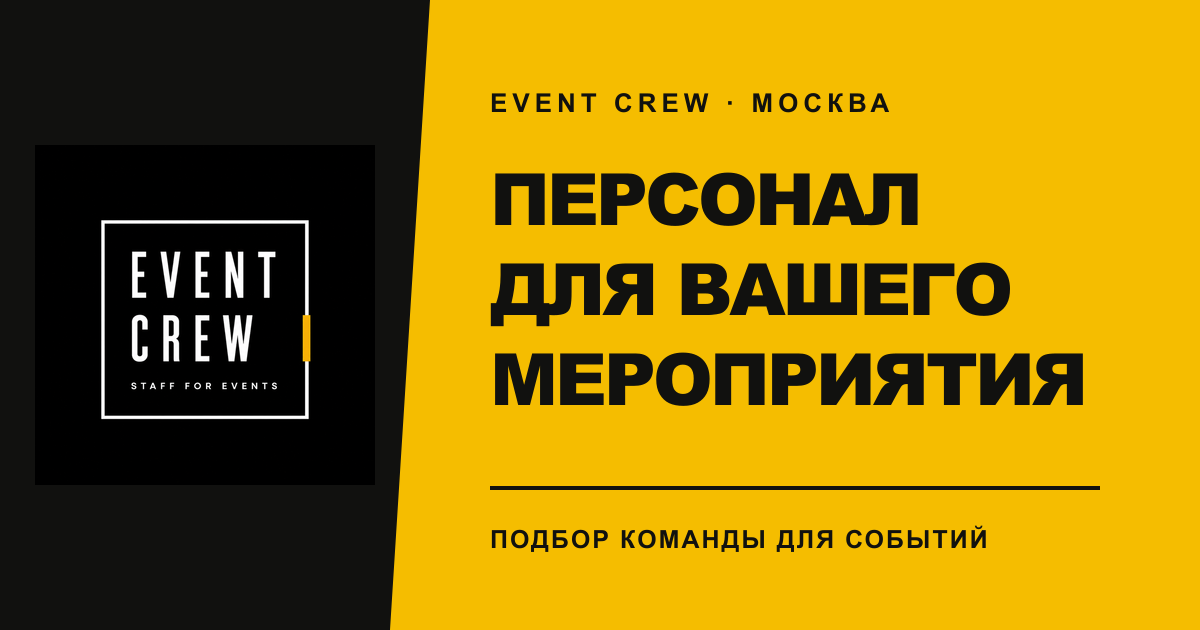
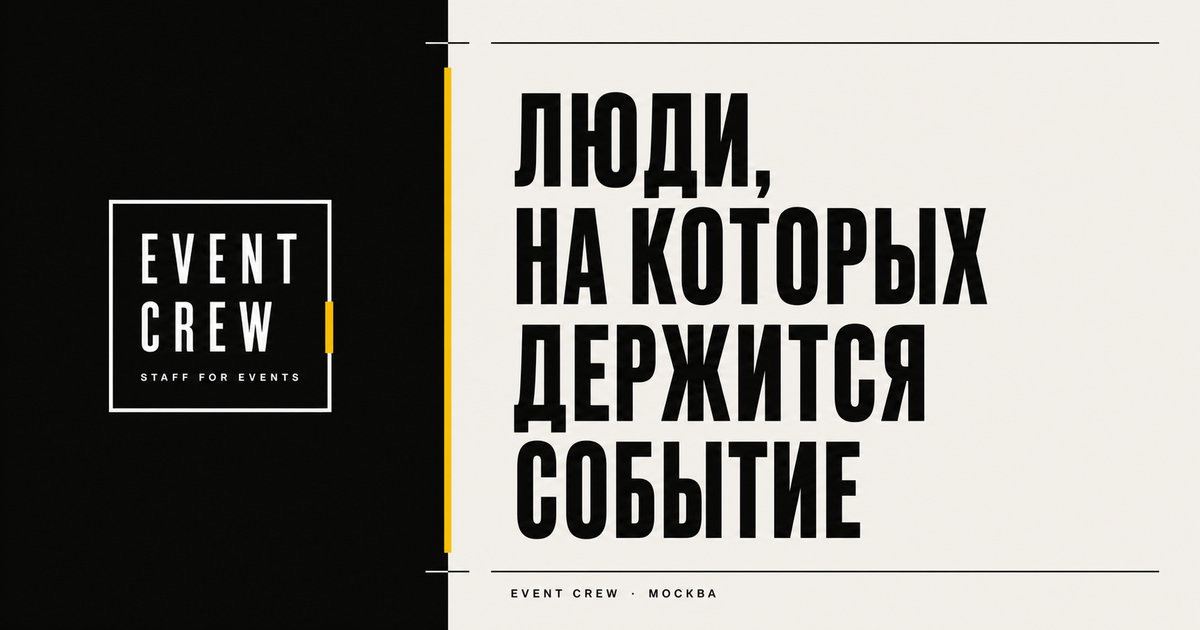
fix: align redesign with approved interaction spec

diff --git a/components/Services.tsx b/components/Services.tsx
@@ -1,9 +1,15 @@
+"use client";
+
 import Image from "next/image";
-import { services } from "@/data/services";
+import { useState } from "react";
 import Reveal from "@/components/Reveal";
 import SectionHeading from "@/components/ui/SectionHeading";
+import { services, type Service } from "@/data/services";
 
 export default function Services() {
+  const [activeId, setActiveId] = useState<Service["id"]>(services[0].id);
+  const activeService = services.find((service) => service.id === activeId) ?? services[0];
+
   return (
     <section aria-labelledby="services-heading" className="mx-auto max-w-[var(--content-width)] px-[var(--page-gutter)] py-24 sm:py-32" id="services">
       <Reveal>
@@ -11,19 +17,63 @@ export default function Services() {
           <SectionHeading eyebrow="Состав команды" title="Кого выводим на площадку" description="Соберём одну роль или смешанную команду. Для каждой смены фиксируем задачи и время работы." />
         </div>
       </Reveal>
-      <ul aria-label="Состав команды" className="mt-12 grid gap-x-6 gap-y-10 sm:grid-cols-2 lg:mt-16 lg:grid-cols-12">
+
+      <div className="mt-16 hidden grid-cols-[minmax(0,1.05fr)_minmax(24rem,0.95fr)] gap-14 lg:grid">
+        <figure className="sticky top-24 h-fit" data-active-service={activeService.id} data-testid="service-stage">
+          <div className="relative aspect-[4/5] overflow-hidden bg-black/5">
+            <Image alt="" className="h-full w-full object-cover" height={1200} key={activeService.id} priority src={activeService.image} width={960} />
+            <figcaption className="absolute inset-x-0 bottom-0 flex items-end justify-between bg-black/80 px-5 py-4 text-[color:var(--background)]">
+              <span className="text-xs font-extrabold uppercase tracking-[0.14em]">На площадке</span>
+              <span className="text-sm font-bold">{activeService.name}</span>
+            </figcaption>
+          </div>
+        </figure>
+
+        <ul aria-label="Состав команды: выбор роли" className="border-b border-black/20">
+          {services.map((service, index) => {
+            const isActive = service.id === activeService.id;
+            return (
+              <li className="border-t border-black/20" key={service.id}>
+                <button
+                  aria-label={`Показать: ${service.name}`}
+                  aria-pressed={isActive}
+                  className="group grid w-full grid-cols-[3.25rem_minmax(0,1fr)] gap-4 py-5 text-left"
+                  onClick={() => setActiveId(service.id)}
+                  onFocus={() => setActiveId(service.id)}
+                  onMouseEnter={() => setActiveId(service.id)}
+                  type="button"
+                >
+                  <span className={`pt-1 text-xs font-black tabular-nums tracking-[0.12em] ${isActive ? "text-[color:var(--foreground)]" : "text-[color:var(--muted)]"}`}>
+                    {String(index + 1).padStart(2, "0")}
+                  </span>
+                  <span>
+                    <span className={`block text-4xl font-black leading-none tracking-[-0.035em] transition-transform duration-150 ${isActive ? "translate-x-2" : "group-hover:translate-x-2"}`}>
+                      {service.name}
+                    </span>
+                    <span className={`mt-3 block max-w-md text-sm leading-relaxed ${isActive ? "text-[color:var(--foreground)]" : "text-[color:var(--muted)]"}`}>
+                      {service.description}
+                    </span>
+                  </span>
+                </button>
+              </li>
+            );
+          })}
+        </ul>
+      </div>
+
+      <ul aria-label="Состав команды: карточки" className="mt-12 grid gap-x-6 gap-y-10 sm:grid-cols-2 lg:hidden">
         {services.map((service, index) => (
-          <li className={index % 4 === 0 || index % 4 === 3 ? "lg:col-span-7" : "lg:col-span-5"} key={service.id}>
+          <li key={service.id}>
             <Reveal delay={Math.min(index * 0.04, 0.2)}>
-              <article className="group grid h-full border-t border-black/20 pt-3 lg:grid-cols-[minmax(0,1.05fr)_minmax(11rem,0.95fr)] lg:gap-5">
-              <div className="aspect-[2/3] overflow-hidden bg-black/5">
-                <Image alt={service.alt} className="h-full w-full object-cover transition-transform duration-200 group-hover:scale-[1.015]" height={1200} sizes="(min-width: 1024px) 38vw, (min-width: 640px) 50vw, 100vw" src={service.image} width={800} />
-              </div>
-              <div className="flex flex-col py-4 lg:py-1">
-                <span className="text-xs font-bold tabular-nums tracking-[0.14em] text-[color:var(--muted)]">ROLE / {String(index + 1).padStart(2, "0")}</span>
-                <h3 className="mt-6 text-3xl font-black leading-none tracking-[-0.035em]">{service.name}</h3>
-                <p className="mt-auto pt-5 leading-relaxed text-[color:var(--muted)]">{service.description}</p>
-              </div>
+              <article className="group h-full border-t border-black/20 pt-3">
+                <div className="aspect-[2/3] overflow-hidden bg-black/5">
+                  <Image alt={service.alt} className="h-full w-full object-cover transition-transform duration-200 group-hover:scale-[1.015]" height={1200} sizes="(min-width: 640px) 50vw, 100vw" src={service.image} width={800} />
+                </div>
+                <div className="py-4">
+                  <span className="text-xs font-bold tabular-nums tracking-[0.14em] text-[color:var(--muted)]">ROLE / {String(index + 1).padStart(2, "0")}</span>
+                  <h3 className="mt-6 text-3xl font-black leading-none tracking-[-0.035em]">{service.name}</h3>
+                  <p className="pt-5 leading-relaxed text-[color:var(--muted)]">{service.description}</p>
+                </div>
               </article>
             </Reveal>
           </li>

diff --git a/tests/components/sections.test.tsx b/tests/components/sections.test.tsx
@@ -1,4 +1,5 @@
 import { render, screen, within } from "@testing-library/react";
+import userEvent from "@testing-library/user-event";
 import Advantages from "@/components/Advantages";
 import Process from "@/components/Process";
 import Projects from "@/components/Projects";
@@ -15,16 +16,38 @@ describe("data-driven content sections", () => {
     const section = screen.getByRole("region", { name: /кого выводим на площадку/i });
     expect(section).toHaveAttribute("id", "services");
     expect(within(section).getByRole("heading", { level: 2 })).toBeInTheDocument();
-    expect(within(section).getByRole("list", { name: /состав команды/i })).toBeInTheDocument();
-    expect(within(section).getAllByRole("listitem")).toHaveLength(8);
+    const mobileRoster = within(section).getByRole("list", { name: "Состав команды: карточки" });
+    expect(within(mobileRoster).getAllByRole("listitem")).toHaveLength(8);
 
     for (const service of services) {
-      expect(within(section).getByRole("heading", { name: service.name, level: 3 })).toBeInTheDocument();
-      const image = within(section).getByRole("img", { name: service.alt });
+      expect(within(mobileRoster).getByRole("heading", { name: service.name, level: 3 })).toBeInTheDocument();
+      const image = within(mobileRoster).getByRole("img", { name: service.alt });
       expect(image).toHaveAttribute("alt", service.alt);
-      expect(image).toHaveAttribute("sizes", "(min-width: 1024px) 38vw, (min-width: 640px) 50vw, 100vw");
+      expect(image).toHaveAttribute("sizes", "(min-width: 640px) 50vw, 100vw");
       expect(image.parentElement).toHaveClass("aspect-[2/3]");
     }
+  });
+
+  it("changes the desktop roster image on hover and keyboard focus", async () => {
+    const user = userEvent.setup();
+    render(<Services />);
+
+    const roster = screen.getByRole("list", { name: "Состав команды: выбор роли" });
+    const stage = screen.getByTestId("service-stage");
+    const firstRole = within(roster).getByRole("button", { name: `Показать: ${services[0].name}` });
+    const secondRole = within(roster).getByRole("button", { name: `Показать: ${services[1].name}` });
+
+    expect(firstRole).toHaveAttribute("aria-pressed", "true");
+    expect(stage).toHaveAttribute("data-active-service", services[0].id);
+
+    await user.hover(secondRole);
+    expect(secondRole).toHaveAttribute("aria-pressed", "true");
+    expect(stage).toHaveAttribute("data-active-service", services[1].id);
+
+    await user.tab();
+    expect(firstRole).toHaveFocus();
+    expect(firstRole).toHaveAttribute("aria-pressed", "true");
+    expect(stage).toHaveAttribute("data-active-service", services[0].id);
   });
 
   it("renders all four advantages and states its Moscow-only scope", () => {

diff --git a/components/Hero.tsx b/components/Hero.tsx
@@ -5,18 +5,18 @@ export default function Hero() {
   return (
     <section className="relative mx-auto grid min-h-[100svh] max-w-[var(--content-width)] items-end gap-8 overflow-hidden px-[var(--page-gutter)] pb-8 pt-28 lg:grid-cols-12 lg:gap-6 lg:pb-14">
       <div className="relative z-10 min-w-0 pb-2 lg:col-span-7 lg:pb-12">
-        <p className="mb-6 text-xs font-extrabold uppercase tracking-[0.18em] text-[color:var(--muted)]">{siteConfig.tagline} / MOSCOW</p>
-        <div className="crew-line pl-5 sm:pl-7" data-crew-line="hero">
+        <p className="hero-enter hero-enter-1 mb-6 text-xs font-extrabold uppercase tracking-[0.18em] text-[color:var(--muted)]" data-hero-stage="1">{siteConfig.tagline} / MOSCOW</p>
+        <div className="crew-line hero-enter hero-enter-2 pl-5 sm:pl-7" data-crew-line="hero" data-hero-stage="2">
           <h1 className="max-w-4xl text-[clamp(3.25rem,11vw,7.9rem)] font-black leading-[0.82] tracking-[-0.055em]">Люди, на которых держится событие</h1>
         </div>
-        <div className="mt-8 grid gap-6 border-t border-black/15 pt-6 sm:grid-cols-[minmax(0,1fr)_auto] sm:items-end">
+        <div className="hero-enter hero-enter-3 mt-8 grid gap-6 border-t border-black/15 pt-6 sm:grid-cols-[minmax(0,1fr)_auto] sm:items-end" data-hero-stage="3">
           <p className="max-w-xl text-base leading-relaxed text-[color:var(--muted)] sm:text-lg">Подберём и выведем на площадку хостес, координаторов, регистраторов и линейный персонал в Москве</p>
           <a className="inline-flex min-h-12 items-center justify-center rounded-sm bg-[color:var(--accent)] px-6 text-sm font-extrabold uppercase tracking-[0.08em] transition-transform duration-150 hover:-translate-y-0.5 active:scale-[0.97]" href="#contact">
             Рассчитать команду
           </a>
         </div>
       </div>
-      <div className="relative min-h-[22rem] min-w-0 overflow-hidden bg-black sm:min-h-[32rem] lg:col-span-5 lg:min-h-[72svh]">
+      <div className="hero-enter hero-enter-4 relative min-h-[22rem] min-w-0 overflow-hidden bg-black sm:min-h-[32rem] lg:col-span-5 lg:min-h-[72svh]" data-hero-stage="4">
         <Image alt="Команда EVENT CREW на мероприятии" className="object-cover" fill priority sizes="(min-width: 1024px) 42vw, 100vw" src={siteConfig.heroImage} />
         <p className="absolute bottom-0 left-0 right-0 border-t border-white/20 bg-black/75 p-4 text-xs font-bold uppercase leading-relaxed tracking-[0.08em] text-white">Москва / состав от 2 человек / на связи в день события</p>
       </div>

diff --git a/components/ContactForm.tsx b/components/ContactForm.tsx
@@ -134,7 +134,7 @@ export default function ContactForm() {
         <form className="bg-[color:var(--background)] p-5 text-[color:var(--foreground)] sm:p-8" noValidate onSubmit={handleSubmit} ref={formRef}>
           <p className="mb-5 text-sm font-semibold">* обозначает обязательные поля</p>
           {validationSummary ? (
-            <p aria-live="assertive" className="mb-5 border-l-4 border-red-700 pl-3 font-bold text-red-800" role="alert">
+            <p aria-live="assertive" className="mb-5 border-l-4 border-[color:var(--danger)] pl-3 font-bold text-[color:var(--danger)]" role="alert">
               {validationSummary}
             </p>
           ) : null}
@@ -183,8 +183,8 @@ export default function ContactForm() {
           <button className="mt-7 inline-flex min-h-12 w-full items-center justify-center bg-[color:var(--accent)] px-6 text-sm font-black uppercase tracking-[0.08em] text-[color:var(--foreground)] transition-transform duration-150 hover:-translate-y-0.5 active:scale-[0.97] disabled:cursor-not-allowed disabled:opacity-70" disabled={status === "submitting"} type="submit">
             {status === "submitting" ? "Отправляем…" : "Отправить заявку"}
           </button>
-          {status === "success" ? <p aria-live="polite" className="mt-4 font-bold text-green-800" role="status">{successCopy}</p> : null}
-          {status === "error" ? <p aria-live="polite" className="mt-4 font-bold text-red-800" role="status">{failureCopy}</p> : null}
+          {status === "success" ? <p aria-live="polite" className="mt-4 font-bold text-[color:var(--foreground)]" role="status">{successCopy}</p> : null}
+          {status === "error" ? <p aria-live="polite" className="mt-4 font-bold text-[color:var(--danger)]" role="status">{failureCopy}</p> : null}
         </form>
       </div>
     </section>
@@ -197,7 +197,7 @@ function FieldError({ children, error, id }: { children: React.ReactNode; error?
   return (
     <div>
       {children}
-      {error ? <p className="mt-1 text-sm font-semibold text-red-800" id={id}>{error}</p> : null}
+      {error ? <p className="mt-1 text-sm font-semibold text-[color:var(--danger)]" id={id}>{error}</p> : null}
     </div>
   );
 }

diff --git a/app/globals.css b/app/globals.css
@@ -4,13 +4,14 @@
   --stage-black: #0a0a09;
   --work-paper: #f2efe6;
   --tape-yellow: #f4bd00;
-  --rig-grey: #66645d;
+  --rig-grey: #8a8982;
+  --readable-grey: #66645d;
   --steel-line: #cac7bd;
   --signal-red: #b83a2d;
   --background: var(--work-paper);
   --foreground: var(--stage-black);
   --accent: var(--tape-yellow);
-  --muted: var(--rig-grey);
+  --muted: var(--readable-grey);
   --muted-on-dark: #b9b6ad;
   --line: var(--steel-line);
   --danger: var(--signal-red);
@@ -72,6 +73,26 @@ textarea {
   width: 0.375rem;
   background: var(--accent);
   content: "";
+}
+
+.hero-enter {
+  animation: hero-enter 520ms cubic-bezier(0.22, 1, 0.36, 1) both;
+}
+
+.hero-enter-1 { animation-delay: 80ms; }
+.hero-enter-2 { animation-delay: 150ms; }
+.hero-enter-3 { animation-delay: 240ms; }
+.hero-enter-4 { animation-delay: 330ms; }
+
+@keyframes hero-enter {
+  from {
+    opacity: 0;
+    transform: translateY(18px);
+  }
+  to {
+    opacity: 1;
+    transform: translateY(0);
+  }
 }
 
 ::selection {

diff --git a/tests/app/contrast.test.ts b/tests/app/contrast.test.ts
@@ -5,6 +5,7 @@ it("uses the EVENT CREW production palette", () => {
     background: "#F2EFE6",
     foreground: "#0A0A09",
     accent: "#F4BD00",
+    rigGrey: "#8A8982",
     muted: "#66645D",
     mutedOnDark: "#B9B6AD",
     line: "#CAC7BD",
@@ -36,6 +37,7 @@ it.each([
   ["muted text on cream", themeColors.muted, themeColors.background],
   ["muted text on black", themeColors.mutedOnDark, themeColors.foreground],
   ["black text on yellow", themeColors.foreground, themeColors.accent],
+  ["danger text on cream", themeColors.danger, themeColors.background],
 ])("keeps %s at WCAG AA contrast", (_label, foreground, background) => {
   expect(contrastRatio(foreground, background)).toBeGreaterThanOrEqual(4.5);
 });

diff --git a/tests/components/hero-footer.test.tsx b/tests/components/hero-footer.test.tsx
@@ -16,6 +16,7 @@ describe("Hero", () => {
     expect(screen.getByRole("link", { name: "Рассчитать команду" })).toHaveAttribute("href", "#contact");
     expect(screen.getByText("Москва / состав от 2 человек / на связи в день события")).toBeInTheDocument();
     expect(container.querySelector('[data-crew-line="hero"]')).toBeInTheDocument();
+    expect(container.querySelectorAll("[data-hero-stage]")).toHaveLength(4);
   });
 });
 

diff --git a/app/layout.tsx b/app/layout.tsx
@@ -12,6 +12,7 @@ const themeStyle = {
   "--background": themeColors.background,
   "--foreground": themeColors.foreground,
   "--accent": themeColors.accent,
+  "--rig-grey": themeColors.rigGrey,
   "--muted": themeColors.muted,
   "--muted-on-dark": themeColors.mutedOnDark,
   "--line": themeColors.line,

diff --git a/lib/theme.ts b/lib/theme.ts
@@ -2,6 +2,7 @@ export const themeColors = {
   background: "#F2EFE6",
   foreground: "#0A0A09",
   accent: "#F4BD00",
+  rigGrey: "#8A8982",
   muted: "#66645D",
   mutedOnDark: "#B9B6AD",
   line: "#CAC7BD",

diff --git a/docs/superpowers/reports/2026-08-17-event-crew-redesign.md b/docs/superpowers/reports/2026-08-17-event-crew-redesign.md
@@ -6,14 +6,17 @@
 
 - Страница получила направление production board с фирменной жёлтой crew line.
 - Подключены Roboto Condensed и Manrope через `next/font` с кириллицей.
-- Hero, roster услуг, контрольный лист, проекты, тайминг, форма и подвал пересобраны на общей 4 px системе.
+- Hero, интерактивный roster услуг, контрольный лист, проекты, тайминг, форма и подвал пересобраны на общей 4 px системе.
+- На десктопе фотография роли меняется по наведению, клику и клавиатурному фокусу. На мобильных сохранены отдельные карточки 2:3.
+- OG-баннер обновлён под новый заголовок и production-board стилистику.
+- Hero появляется в четыре коротких этапа; системная настройка reduced motion отключает движение.
 - Все фотографии остались локальными. Пути для быстрой замены находятся в `data/site.ts`, `data/services.ts` и `data/projects.ts`.
 - Сохранены focus trap мобильного меню, валидация, Telegram API, rate limit и состояния формы.
 - Тексты прошли stop-slop аудит. Удалены рекламные клише, безличные обещания и конструкции с длинным тире.
 
 ## Проверка
 
-- `npm run test:run`: 12 файлов, 65 тестов, PASS.
+- `npm run test:run`: 12 файлов, 67 тестов, PASS.
 - `npm run typecheck`: PASS.
 - `npm run lint`: PASS.
 - `npm run build`: PASS.
@@ -26,7 +29,7 @@
 - Swap: замена Roboto Condensed на системный шрифт убирает production-характер заголовков.
 - Squint: hero headline, фотография и CTA формируют один главный маршрут.
 - Signature: crew line используется в hero, заголовках секций, roster, timeline и форме.
-- Token: брендовые цвета берутся из семантических переменных; signal red используется только для ошибок.
+- Token: брендовые цвета берутся из семантических переменных; signal red используется только для ошибок. Rig grey отделён от более контрастного цвета вторичного текста.
 
 ## Ограничение проверки
 

diff --git a/.interface-design/system.md b/.interface-design/system.md
@@ -9,7 +9,8 @@ Production board for an event producer checking a staffing partner between calls
 - Stage black `#0A0A09`
 - Work paper `#F2EFE6`
 - Tape yellow `#F4BD00`
-- Rig grey `#66645D`
+- Rig grey `#8A8982`, structural marks and inactive decoration
+- Readable grey `#66645D`, secondary text on work paper
 - Steel line `#CAC7BD`
 - Signal red `#B83A2D`, errors only
 
